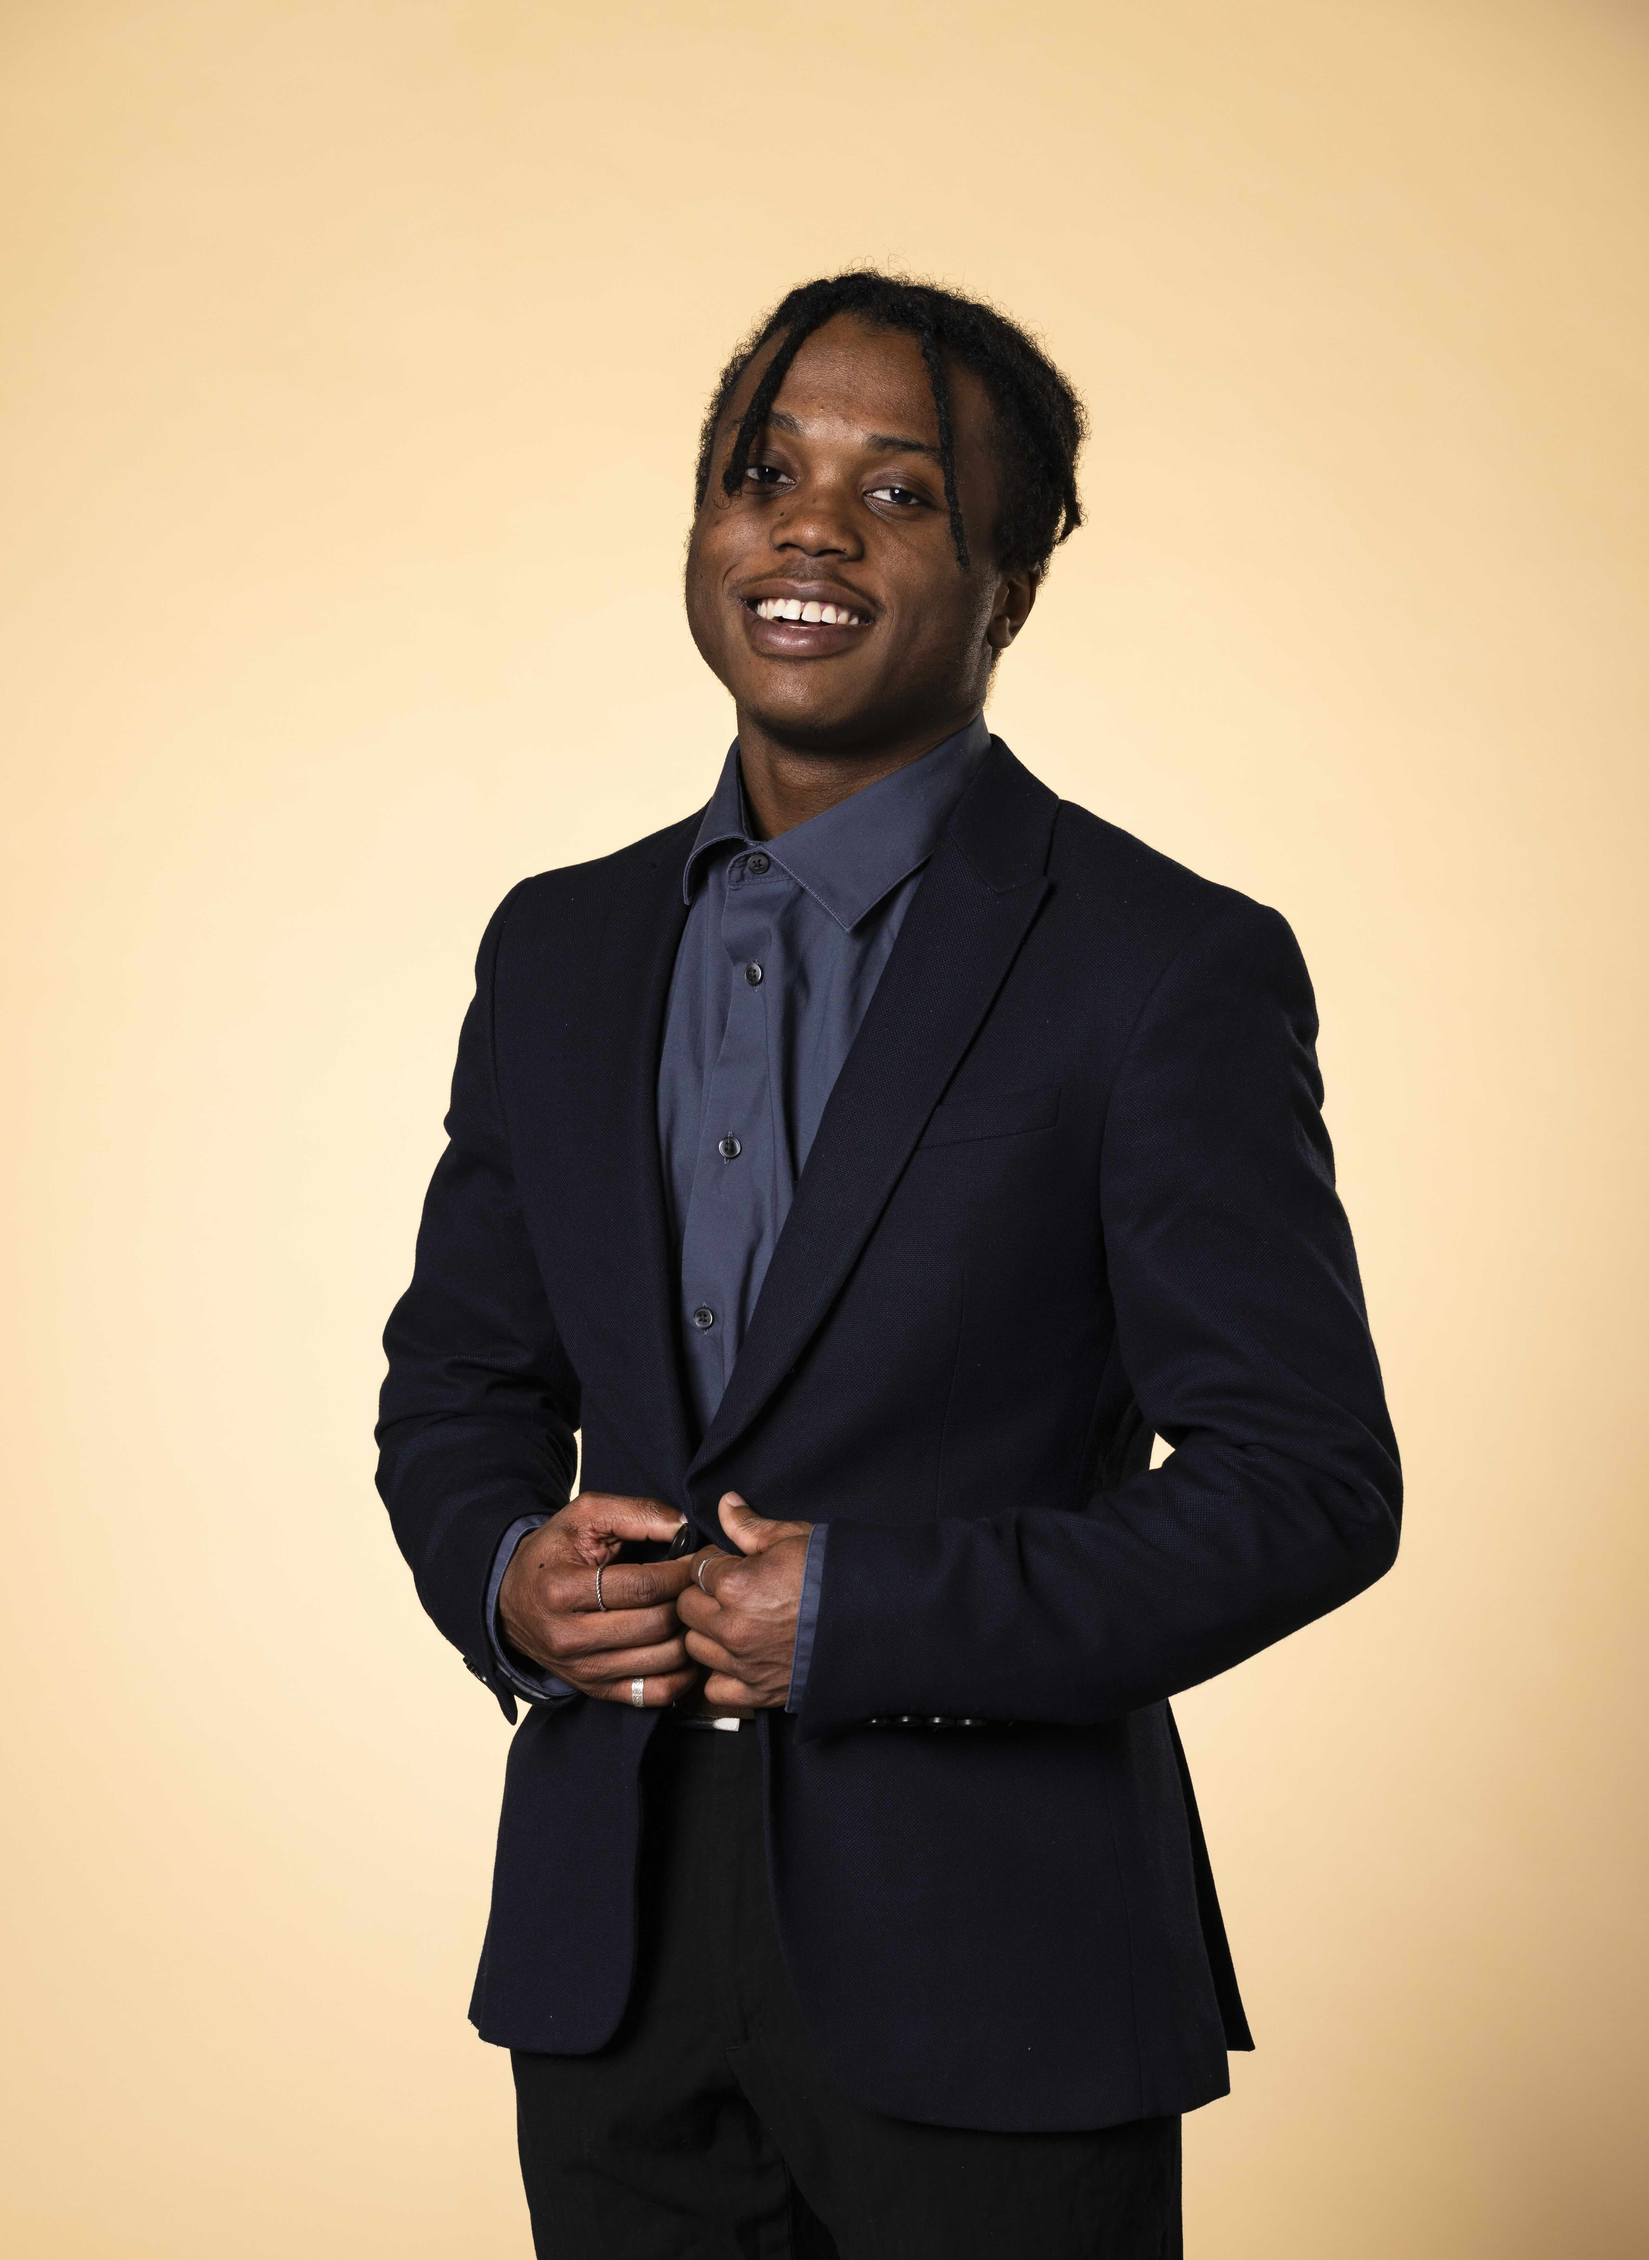
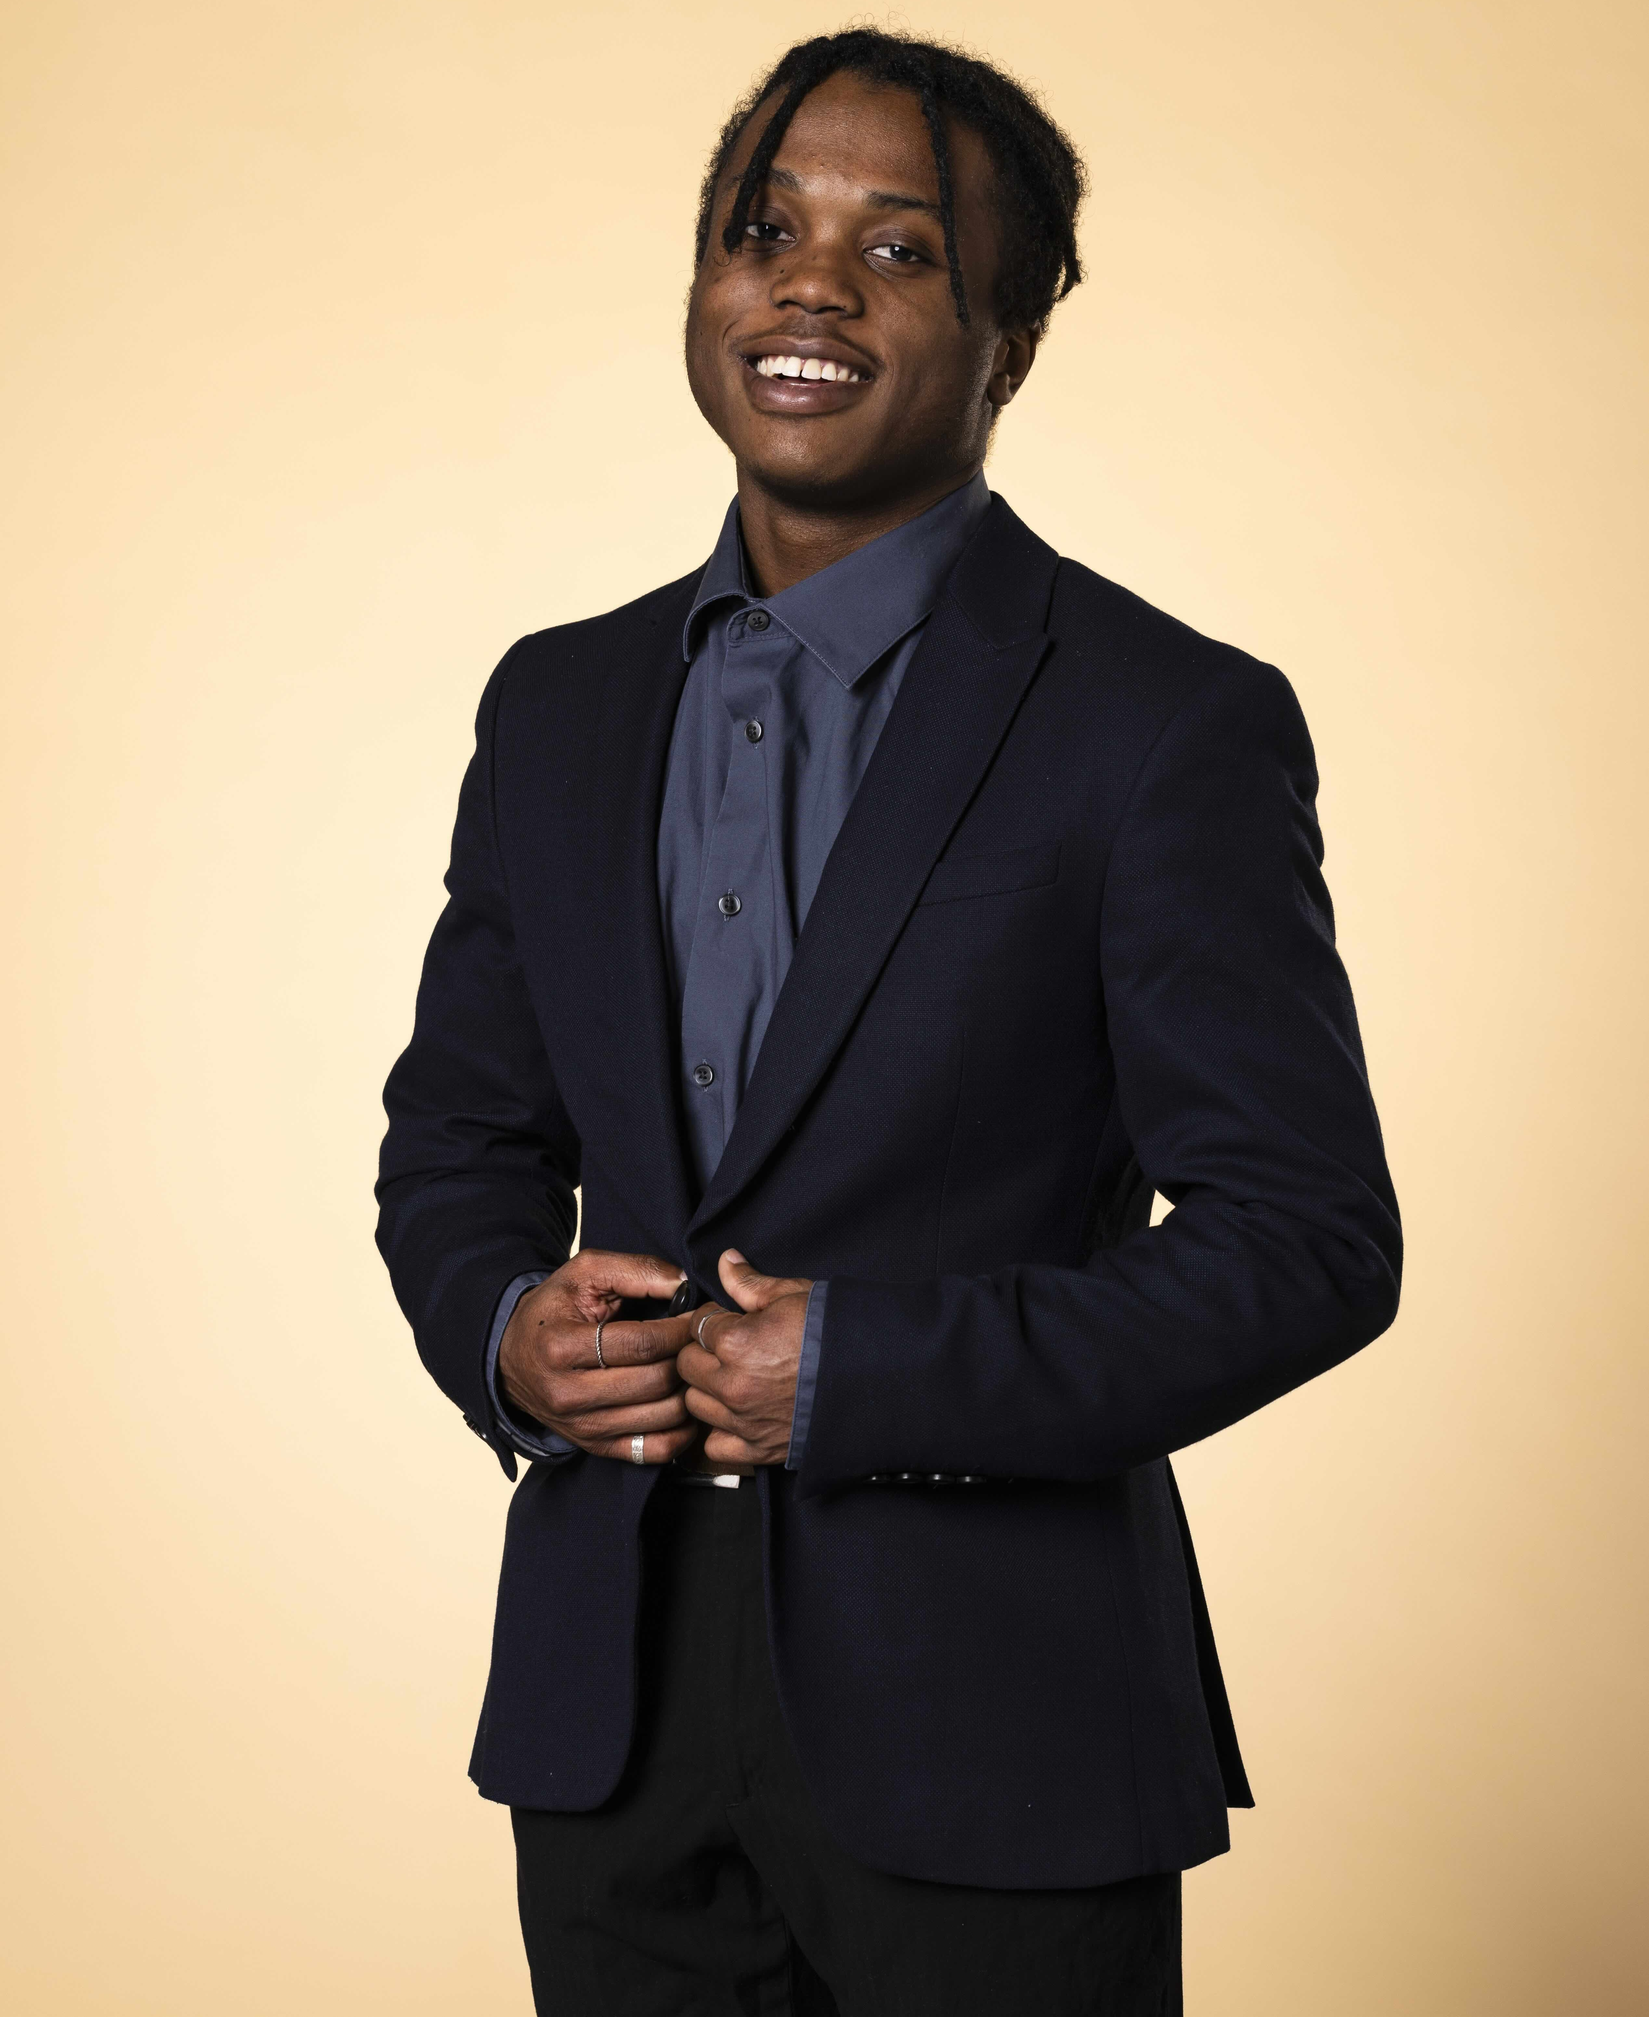
updated home photo

diff --git a/src/style/Home.css b/src/style/Home.css
@@ -123,7 +123,7 @@
     .main-photo {
         background-image: url("/src/img/portrait.jpg");
         background-size: cover;
-        background-position: center;
+        background-position: top;
         width: inherit;
         height: inherit;
         position: absolute;
